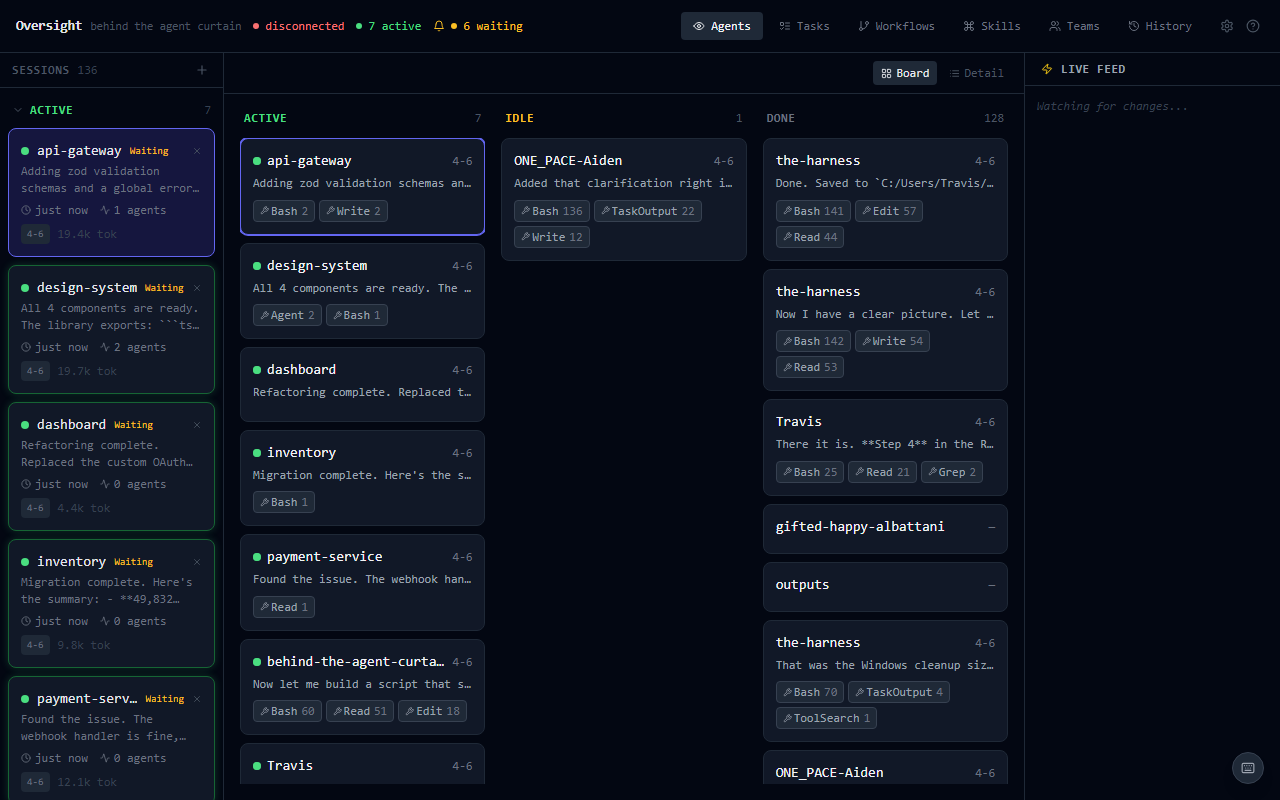
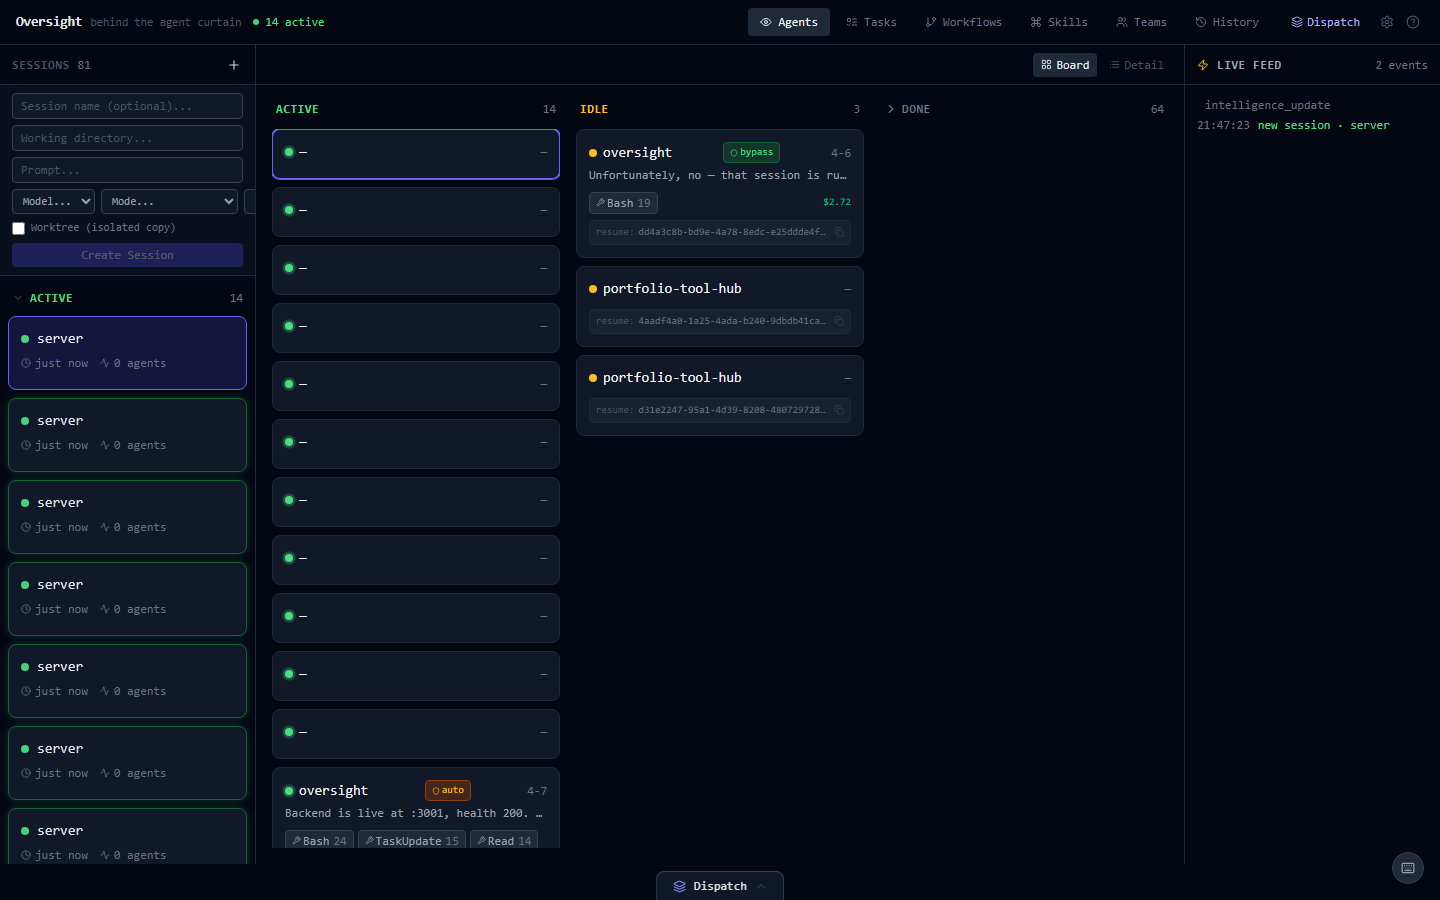
docs: refresh README + ARCHITECTURE for folder picker, dispatch, lazy claude-bin
README:
- Hero overview screenshot at the top.
- Rewrote "New Sessions" section. The modal is gone; the new-session form
  now lives inline in the sidebar. Documents the folder picker (Home/Up/
  Recent/Show-hidden, platform-aware via /api/fs/*), CLI error surfacing
  (stderr + stdout panels on 503), and clarifies that `effort` is SDK-only
  so it lives on the Session Control Bar, not here.
- Added a "Dispatch Manager" section with screenshot — the one-message-
  many-sessions launcher that groups by project/team, guards against
  empty / no-selection / 409s, and routes through the PTY path.
- Added `d` (open Dispatch Manager) to the keyboard shortcuts table.

ARCHITECTURE.md:
- lib table: document server/lib/claude-bin.js (lazy, memoized resolver)
  and server/lib/atomic-write.js.
- routes table: document routes/fs.js and routes/managers.js.
- CLI bridge entry now notes that claude-cli.js preserves stdoutOutput on
  error for structured 429 / quota surfacing.
- components table: add FolderPicker, NewSessionForm, DispatchDrawer,
  DispatchSignal.
- Testing table updated to 670 server + 438 client = 1,108 total, broken
  down by new directory shape.
- Directory tree brought up to current state: new components, new lib
  files, expanded parsers / routes counts, e2e split note, 15 screenshots.

Screenshots:
- docs/screenshots/overview.png — full-layout dashboard
- docs/screenshots/dispatch.png — Dispatch Manager modal
[…]

diff --git a/docs/ARCHITECTURE.md b/docs/ARCHITECTURE.md
@@ -101,6 +101,8 @@ Oversight is a local web dashboard that monitors Claude Code agent activity in r
 | `server/lib/logger.js` | Pino structured logger, configurable via LOG_LEVEL env var |
 | `server/lib/lifecycle.js` | Graceful shutdown (SIGTERM/SIGINT), readiness state, process error handlers |
 | `server/lib/apiError.js` | Standardized `ApiError` class + factory helpers (badRequest, notFound, conflict, unauthorized) |
+| `server/lib/claude-bin.js` | Locates the `claude` CLI on PATH (`claude.exe` → `claude.cmd` → `claude.ps1` on Windows, `claude` elsewhere). Exposes a lazy, memoized `getClaudeBin()` so the server boots even if the CLI is missing — routes fail with a clean 503 at call time instead of crashing at import. |
+| `server/lib/atomic-write.js` | Atomic JSON writer (write-temp + rename) used by any state file that must never be half-written |
 | `server/middleware/security.js` | Helmet security headers, express-rate-limit, optional API key auth |
 | `server/middleware/requestLogger.js` | pino-http request logging with correlation IDs (X-Request-Id) |
 | `server/middleware/performance.js` | Response compression, cache headers, connection timeouts |
@@ -132,6 +134,8 @@ Each parser reads a specific file format from `~/.claude/` and returns structure
 | `routes/workflows.js` | `GET /`, workflow listing |
 | `routes/history.js` | `GET /`, `GET /stats` |
 | `routes/stream.js` | `GET /stream` — SSE endpoint |
+| `routes/fs.js` | `GET /api/fs/home`, `GET /api/fs/list?path=…` — host filesystem enumeration used by the sidebar folder picker. Returns `sep` so the client stays platform-agnostic. Absolute-only, NUL-reject, UNC-reject on Windows. Unrestricted directory listing is intentional for a local-only dashboard; documented inline. |
+| `routes/managers.js` | `GET /api/managers` — manager/team/standalone session groupings surfaced by the Dispatch Manager. |
 
 ### Intelligence
 
@@ -156,7 +160,7 @@ AI-powered session analysis using the `claude` CLI.
 
 | File | Purpose |
 |------|---------|
-| `claude-cli.js` | Spawns `claude` CLI as subprocess for message replies, skill invocation, new sessions, and intel analysis. Concurrent writes to the same session are blocked (409 Conflict). |
+| `claude-cli.js` | Spawns `claude` CLI as subprocess for new sessions, fork, worktree creation, and intel analysis. Resolves the binary via `lib/claude-bin.js` (lazy + memoized). On non-zero exit the rejected error carries both `stderrOutput` and `stdoutOutput` so callers can surface structured failures (e.g. the 429 quota JSON the CLI writes to stdout). Concurrent writes to the same session are blocked at the route layer (409 Conflict). |
 
 ### PTY Session Control
 
@@ -222,6 +226,9 @@ AI-powered session analysis using the `claude` CLI.
 | Component | Purpose |
 |-----------|---------|
 | `SessionsList.jsx` | Left sidebar — sessions grouped by Active/Recent/Older |
+| `NewSessionForm.jsx` | Inline new-session form at the top of the sidebar — name, cwd + folder picker trigger, prompt, model, mode, worktree. Surfaces CLI `stderr` / `stdout` in scrollable monospace blocks on failure. |
+| `FolderPicker.jsx` | Modal folder picker used by `NewSessionForm` — breadcrumb + Home/Up/Show-hidden, recent-cwd chips, driven by `/api/fs/*`. Uses the server-reported path separator so it works identically on POSIX and Windows. |
+| `DispatchDrawer.jsx` + `DispatchSignal.jsx` | Dispatch Manager — select many sessions grouped by project / team and send one message (or skill) to all of them through the existing PTY path. `DispatchSignal` is the bottom-docked launcher badge. |
 | `KanbanBoard.jsx` | Board view — sessions as cards in status columns |
 | `AgentTree.jsx` | Detail view shell — sub-tab bar (Conversation/Timeline/Summary/Intel), session control bar |
 | `ConversationView.jsx` | Message thread with send input, slash-command autocomplete, option pills |
@@ -280,21 +287,22 @@ All data is read from the local filesystem. The server never modifies `~/.claude
 
 ## Testing
 
-**~748 total tests** (390 server + 358 client) — all must pass before pushing.
+**1,108 total tests** — 670 server (44 files) + 438 client (39 files). All must pass before pushing.
 
 | Suite | Runner | Count | Location |
 |-------|--------|-------|----------|
-| Server parsers | Vitest | ~99 | `server/tests/parsers/` (7 files) |
-| Server routes | Vitest | ~97 | `server/tests/routes/` (8 files incl. stream, health) |
+| Server parsers | Vitest | ~170 | `server/tests/parsers/` |
+| Server routes | Vitest | ~200 | `server/tests/routes/` (incl. sessions, fs, stream, health, tasks, teams, workflows, skills, managers, plans, history) |
 | Server intelligence | Vitest | ~37 | `server/tests/intelligence/` (cache, analyzer, triggers) |
 | Server infrastructure | Vitest | ~22 | `server/tests/` (sse, watcher) |
-| Server PTY | Vitest | 59 | `server/tests/` |
-| Server middleware | Vitest | ~20 | `server/tests/middleware/` (security, requestLogger, performance, errorHandler) |
-| Server lib | Vitest | ~20 | `server/tests/lib/` (config, apiError, lifecycle, logger) |
+| Server PTY | Vitest | 59 | `server/tests/pty-session.test.js` |
+| Server middleware | Vitest | ~27 | `server/tests/middleware/` (security, requestLogger, performance, errorHandler) |
+| Server lib | Vitest | ~36 | `server/tests/lib/` (config, apiError, lifecycle, logger, claude-bin) |
+| Server utils | Vitest | ~60 | `server/tests/utils/` (cost, costEnhanced, export, commandClassifier, secretScanner) |
 | Client hooks | Vitest + RTL | ~100 | `client/src/tests/hooks/` |
 | Client audio | Vitest | 25 | `client/src/tests/audio/` |
-| Client components | Vitest + RTL | ~233 | `client/src/tests/components/` (17 files) |
-| E2E | Playwright | — | `e2e/` (5 spec files) |
+| Client components | Vitest + RTL | ~300 | `client/src/tests/components/` (incl. NewSessionForm, FolderPicker, DispatchSignal) |
+| E2E | Playwright | — | `e2e/` (incl. `api-dispatch.spec.js`, split out so shape/validation tests don't contend with UI tests for worker slots) |
 
 **Test infrastructure:**
 - MSW (Mock Service Worker) for API mocking in client tests
@@ -327,12 +335,16 @@ oversight/
 │   │   │   │   └── ShortcutsTab.jsx
 │   │   │   ├── AgentTree.jsx
 │   │   │   ├── ConversationView.jsx
+│   │   │   ├── DispatchDrawer.jsx        # Dispatch Manager modal
+│   │   │   ├── DispatchSignal.jsx        # Bottom-docked dispatch launcher
+│   │   │   ├── FolderPicker.jsx          # /api/fs-backed folder picker
 │   │   │   ├── Markdown.jsx
 │   │   │   ├── ToolApprovalBanner.jsx
 │   │   │   ├── IntelView.jsx
 │   │   │   ├── KanbanBoard.jsx
 │   │   │   ├── LegendModal.jsx
 │   │   │   ├── LiveFeed.jsx
+│   │   │   ├── NewSessionForm.jsx        # Inline sidebar new-session form
 │   │   │   ├── QuickActions.jsx
 │   │   │   ├── SessionControlBar.jsx
 │   │   │   ├── SessionsList.jsx
@@ -369,13 +381,15 @@ oversight/
 │   │   ├── analyzer.js
 │   │   ├── cache.js
 │   │   └── triggers.js
-│   ├── parsers/                  # 7 parser modules
-│   ├── routes/                   # 7 route modules
+│   ├── parsers/                  # 13+ parser modules (sessions, messages, tasks, teams, skills, workflows, history, managers, plans, mcp, hooks, config, memory)
+│   ├── routes/                   # 11+ route modules (sessions, fs, tasks, skills, teams, workflows, history, managers, plans, stream, health)
 │   ├── lib/
 │   │   ├── config.js             # Centralized env var config
 │   │   ├── logger.js             # Pino structured logger
 │   │   ├── lifecycle.js          # Graceful shutdown + readiness
-│   │   └── apiError.js           # Standardized error class
+│   │   ├── apiError.js           # Standardized error class
+│   │   ├── claude-bin.js         # Lazy, memoized `claude` CLI resolver (Windows .exe/.cmd/.ps1 aware)
+│   │   └── atomic-write.js       # write-temp + rename JSON writer
 │   ├── middleware/
 │   │   ├── security.js           # Helmet, rate limiting, API key auth
 │   │   ├── requestLogger.js      # pino-http + correlation IDs
@@ -384,8 +398,8 @@ oversight/
 │   ├── utils/
 │   │   └── validate.js           # Shared input validation helpers
 │   ├── tests/
-│   │   ├── parsers/              # 7 parser test files
-│   │   ├── routes/               # 8 route test files (incl. stream, health)
+│   │   ├── parsers/              # Parser test files (sessions, messages, tasks, teams, skills, workflows, history, managers, plans, mcp, hooks, config, memory)
+│   │   ├── routes/               # Route test files (sessions, fs, stream, health, tasks, teams, workflows, skills, managers, plans, history)
 │   │   ├── intelligence/         # Cache, analyzer, triggers tests
 │   │   ├── middleware/           # Security, logging, perf, error tests
 │   │   ├── lib/                  # Config, apiError, lifecycle, logger tests
@@ -403,7 +417,7 @@ oversight/
 │   └── pre-commit                # Runs lint-staged on commit
 ├── docs/
 │   ├── ARCHITECTURE.md           # ← this file
-│   ├── screenshots/              # 5 PNG screenshots
+│   ├── screenshots/              # 15 PNG screenshots (overview, dispatch, new-session, board, conversation, timeline, tasks, etc.)
 │   └── superpowers/
 │       ├── plans/                # Implementation plans
 │       └── specs/                # Design specifications

diff --git a/README.md b/README.md
@@ -4,6 +4,10 @@
 
 If you've ever spawned a long-running Claude Code session and wondered "what is it actually doing right now?", this is for you.
 
+![Oversight dashboard overview](docs/screenshots/overview.png)
+
+A three-pane layout: sessions sidebar on the left, board / detail in the middle, live SSE feed on the right, with the Dispatch launcher docked at the bottom. Everything updates in real time as `~/.claude/` changes on disk.
+
 ---
 
 ## Board View
@@ -111,13 +115,42 @@ Browse your Claude Code command history with search, project filtering, and grou
 
 ## New Sessions
 
-Click the **+** button in the sidebar to spawn a new Claude Code session. Fill in a working directory, prompt, and optionally: session name, model (sonnet/opus/haiku), permission mode, effort level, and worktree isolation.
+Click the **+** button at the top of the sidebar to open the inline new-session form. Everything you need lives in the sidebar itself — no modal, no context switch.
 
-![New session form](docs/screenshots/new-session.png)
+![New session form in the sidebar](docs/screenshots/new-session.png)
 
-New sessions are created via a one-shot CLI subprocess (`claude -p ... --output-format json`). Interactive messaging after creation runs through a PTY on your Claude subscription — no API credits consumed.
+Fill in a working directory and prompt (required), plus optional session name, model (`sonnet` / `opus` / `haiku`), permission mode, and worktree isolation. The **folder icon** next to the working-directory input opens a lightweight folder picker.
 
-> The `effort` dropdown is forwarded only to SDK-backed paths (tool approvals, skill runs). It is not a valid flag for the one-shot CLI used by new-session creation and is silently dropped there.
+### Folder Picker
+
+![New session form close-up](docs/screenshots/new-session-tight.png)
+
+- Breadcrumb path with **Home** and **Up** buttons
+- **Recent** chips populated from the working directories of existing sessions
+- **Show hidden** toggle for dotfiles
+- Platform-aware: backed by `/api/fs/home` and `/api/fs/list`, which return the host's path separator so the picker works on macOS, Linux, and Windows
+- Rejects UNC / remote-share paths on Windows by design — Oversight is a local dashboard and shouldn't enumerate network shares
+
+### How a session is spawned
+
+New sessions are created via a one-shot CLI subprocess (`claude -p … --output-format json`). Interactive messaging after creation runs through a PTY on your Claude subscription — **no API credits consumed**. If the CLI exits non-zero (e.g. a 429 quota response), the error panel renders the captured `stderr` and `stdout` in scrollable monospace blocks so you see the real cause instead of an opaque "exited with code=1".
+
+> The `effort` option is SDK-only and is not valid for the one-shot `-p` CLI used here. It's exposed on the per-message **Session Control Bar** inside each conversation (SDK path), where it actually takes effect.
+
+---
+
+## Dispatch Manager
+
+A single "one message, many sessions" launcher. Click the **Dispatch** button at the bottom of the screen (or press `d`) to open the manager:
+
+![Dispatch Manager modal](docs/screenshots/dispatch.png)
+
+- Sessions are grouped by project (and any configured teams) so you can fan out to everything relevant in one click
+- Per-row status, cost, and last-message preview mean you can pick the right targets without leaving the launcher
+- Guards against sending an empty message, no-selected-sessions, or a session that already has an in-flight query (HTTP 409)
+- The message is routed through the same PTY path as the conversation view, so each recipient's JSONL is updated live and every dashboard tab sees it
+
+Typical uses: broadcasting a status-check ping, telling every active agent to commit, or running the same `/review-pr` skill across a fleet of worktrees.
 
 ---
 
@@ -169,6 +202,7 @@ All shortcuts are rebindable in Settings. Support for modifier combos (`Ctrl+k`,
 | `c` | Continue — send "continue" to waiting session |
 | `/` | Focus message input |
 | `m` | Mute selected session's notifications |
+| `d` | Open Dispatch Manager |
 | `,` | Open settings |
 | `?` | Toggle shortcut overlay |
 
